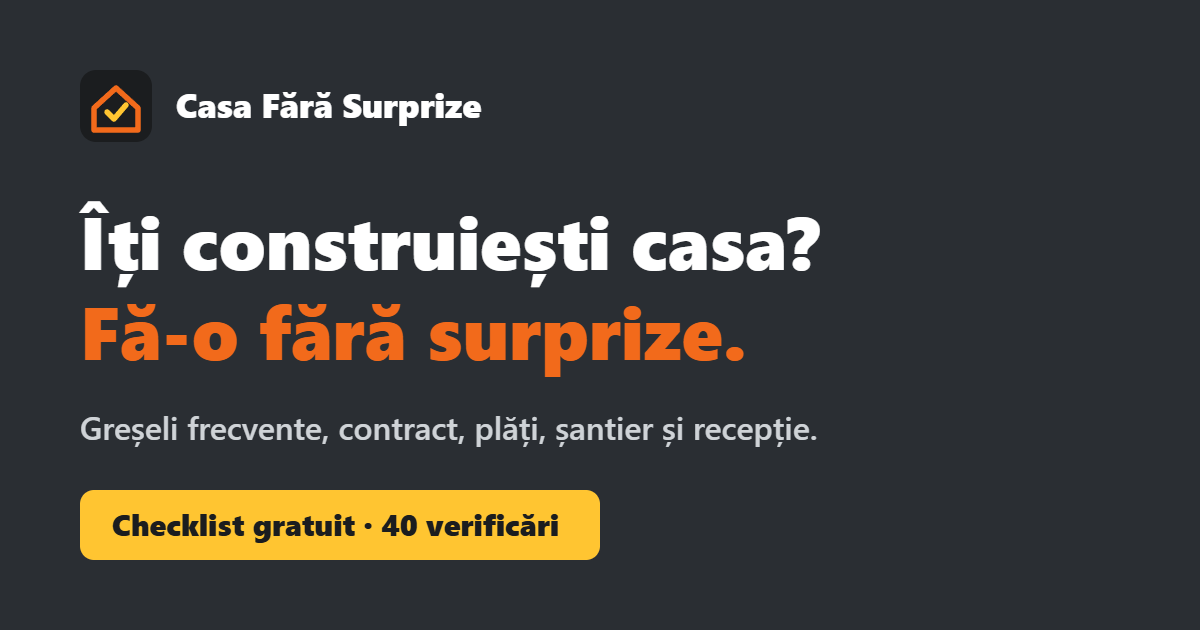
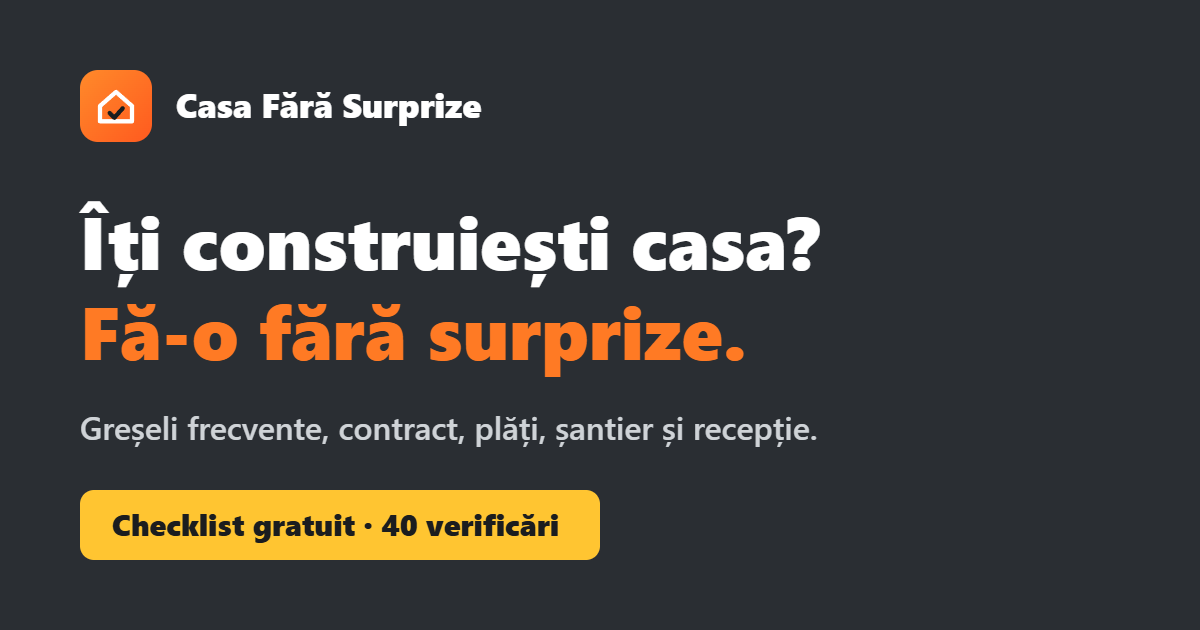
Add files via upload

Changed region(s): [[0.0617, 0.0905, 0.1542, 0.2413]]

diff --git a/checklist.html b/checklist.html
@@ -4,6 +4,7 @@
 <meta charset="UTF-8">
 <meta name="viewport" content="width=device-width, initial-scale=1">
 <title>Checklist-ul „Fără Surprize” — 40 de verificări</title>
+<link rel="icon" href="favicon.svg" type="image/svg+xml">
 <meta name="robots" content="noindex">
 <link rel="preconnect" href="https://fonts.googleapis.com">
 <link rel="preconnect" href="https://fonts.gstatic.com" crossorigin>
@@ -37,7 +38,7 @@
 </head>
 <body>
 <header><div class="wrap">
-  <a class="logo" href="./"><svg viewBox="0 0 40 40" aria-hidden="true"><rect width="40" height="40" rx="9" fill="#1b1d1f"/><path d="M8 21 20 10l12 11v11H8z" fill="none" stroke="#f26a1b" stroke-width="3" stroke-linejoin="round"/><path d="m15 23 4 4 7-8" fill="none" stroke="#ffc531" stroke-width="3" stroke-linecap="round" stroke-linejoin="round"/></svg>Casa Fără Surprize</a>
+  <a class="logo" href="./"><svg viewBox="0 0 40 40" aria-hidden="true"><defs><linearGradient id="lgcfs" x1="0" y1="0" x2="1" y2="1"><stop offset="0" stop-color="#ff8a2a"/><stop offset="1" stop-color="#ff5a1f"/></linearGradient></defs><rect width="40" height="40" rx="10" fill="url(#lgcfs)"/><path d="M11.1 20 L20 12.2 L28.9 20 V28.5 H11.1 Z" fill="none" stroke="#fff" stroke-width="2.4" stroke-linecap="round" stroke-linejoin="round"/><path d="M16.5 23.9 L19.1 26.5 L23.7 21.3" fill="none" stroke="#1b1d1f" stroke-width="2.4" stroke-linecap="round" stroke-linejoin="round"/></svg>Casa Fără Surprize</a>
   <h1>Checklist-ul <em>„Fără Surprize”</em><br>40 de verificări înainte să-ți construiești casa</h1>
   <p>Nu semna și nu plăti nimic până nu bifezi verificările din etapa în care te afli. Ține pagina pe telefon și deschide-o la fiecare întâlnire cu constructorul. Ce nu poți bifa e o întrebare de clarificat în scris.</p>
   <div class="bar"><button class="btn" onclick="window.print()">Salvează ca PDF / Printează</button><span class="count" id="count">0 / 40 bifate</span></div>

diff --git a/politica-confidentialitate.html b/politica-confidentialitate.html
@@ -4,6 +4,7 @@
 <meta charset="UTF-8">
 <meta name="viewport" content="width=device-width, initial-scale=1">
 <title>Politica de confidențialitate — Casa Fără Surprize</title>
+<link rel="icon" href="favicon.svg" type="image/svg+xml">
 <meta name="robots" content="noindex">
 <link rel="preconnect" href="https://fonts.googleapis.com">
 <link rel="preconnect" href="https://fonts.gstatic.com" crossorigin>
@@ -32,7 +33,7 @@
 </head>
 <body>
 <nav><div class="wrap">
-  <a class="logo" href="./"><svg viewBox="0 0 40 40" aria-hidden="true"><rect width="40" height="40" rx="9" fill="#1b1d1f"/><path d="M8 21 20 10l12 11v11H8z" fill="none" stroke="#f26a1b" stroke-width="3" stroke-linejoin="round"/><path d="m15 23 4 4 7-8" fill="none" stroke="#ffc531" stroke-width="3" stroke-linecap="round" stroke-linejoin="round"/></svg>Casa Fără Surprize</a>
+  <a class="logo" href="./"><svg viewBox="0 0 40 40" aria-hidden="true"><defs><linearGradient id="lgcfs" x1="0" y1="0" x2="1" y2="1"><stop offset="0" stop-color="#ff8a2a"/><stop offset="1" stop-color="#ff5a1f"/></linearGradient></defs><rect width="40" height="40" rx="10" fill="url(#lgcfs)"/><path d="M11.1 20 L20 12.2 L28.9 20 V28.5 H11.1 Z" fill="none" stroke="#fff" stroke-width="2.4" stroke-linecap="round" stroke-linejoin="round"/><path d="M16.5 23.9 L19.1 26.5 L23.7 21.3" fill="none" stroke="#1b1d1f" stroke-width="2.4" stroke-linecap="round" stroke-linejoin="round"/></svg>Casa Fără Surprize</a>
   <a class="back" href="./">← Înapoi la site</a>
 </div></nav>
 

diff --git a/index.html b/index.html
@@ -166,7 +166,7 @@
 <nav>
   <div class="wrap">
     <a class="logo" href="#top">
-      <svg class="logo-mark" viewBox="0 0 40 40" aria-hidden="true"><rect width="40" height="40" rx="9" fill="#1b1d1f"/><path d="M8 21 20 10l12 11v11H8z" fill="none" stroke="#f26a1b" stroke-width="3" stroke-linejoin="round"/><path d="m15 23 4 4 7-8" fill="none" stroke="#ffc531" stroke-width="3" stroke-linecap="round" stroke-linejoin="round"/></svg>
+      <svg class="logo-mark" viewBox="0 0 40 40" aria-hidden="true"><defs><linearGradient id="lgcfs" x1="0" y1="0" x2="1" y2="1"><stop offset="0" stop-color="#ff8a2a"/><stop offset="1" stop-color="#ff5a1f"/></linearGradient></defs><rect width="40" height="40" rx="10" fill="url(#lgcfs)"/><path d="M11.1 20 L20 12.2 L28.9 20 V28.5 H11.1 Z" fill="none" stroke="#fff" stroke-width="2.4" stroke-linecap="round" stroke-linejoin="round"/><path d="M16.5 23.9 L19.1 26.5 L23.7 21.3" fill="none" stroke="#1b1d1f" stroke-width="2.4" stroke-linecap="round" stroke-linejoin="round"/></svg>
       Casa Fără Surprize
     </a>
     <ul>
